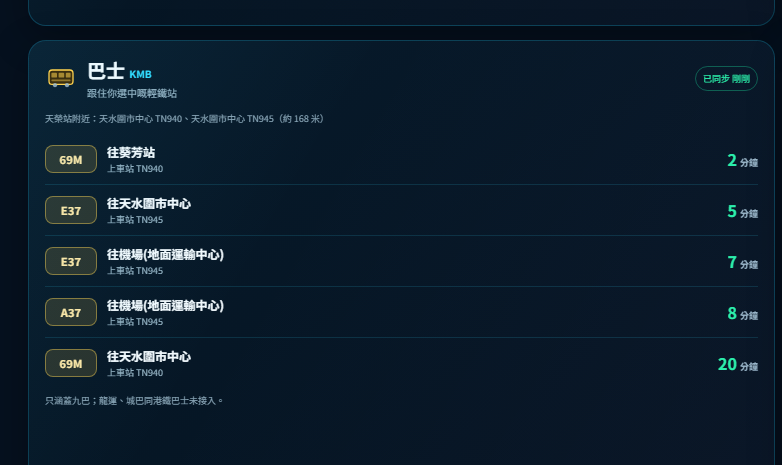
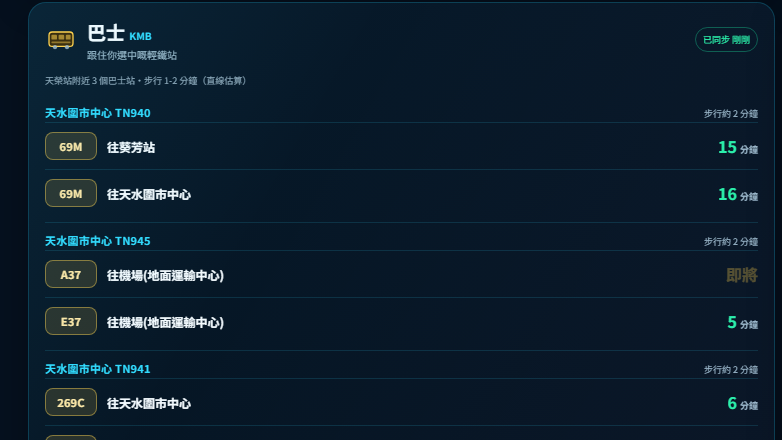
feat(bus): 每站 3 個巴士站、按上車站分組、加步行時間估算

diff --git a/src/ui/bus.ts b/src/ui/bus.ts
@@ -1,10 +1,13 @@
 import type { BusArrival, Slice } from '../api/types';
+import { groupByStop } from '../core/bus';
 import { busStopsFor } from '../core/places';
+import { walkLabel, walkMinutes } from '../core/walk';
 import { byId, h, replace, setText } from '../lib/dom';
 import { agoText, etaText, freshness } from '../lib/format';
 
 const STALE_MS = 3 * 60_000;
 const DEAD_MS = 20 * 60_000;
+const PER_STOP = 2;
 
 function badgeText(slice: Slice<readonly BusArrival[]>, now: Date): string {
   if (slice.state === 'error') return '更新失敗';
@@ -15,12 +18,6 @@ function badgeText(slice: Slice<readonly BusArrival[]>, now: Date): string {
   return `已同步 ${agoText(slice.updatedAt, now)}`;
 }
 
-/** 站名最後一段就係九巴站編號（例如「天水圍市中心 TN940」→ TN940）。 */
-function stopCode(name: string): string {
-  const match = /([A-Z]{2}\d{3})$/.exec(name);
-  return match?.[1] ?? name;
-}
-
 /** 九巴路線號有字母（A37／E37C／259D），所以獨立一個 chip 樣式，唔跟輕鐵色相。 */
 function busRow(row: BusArrival): HTMLElement {
   const eta = etaText(row.minutes);
@@ -28,12 +25,7 @@ function busRow(row: BusArrival): HTMLElement {
     'div',
     { class: 'bus-row' },
     h('span', { class: 'bus-chip', text: row.route }),
-    h(
-      'div',
-      { class: 'bus-info' },
-      h('b', { text: row.dest ? `往${row.dest}` : '目的地不詳' }),
-      h('small', { text: `上車站 ${stopCode(row.stop)}` }),
-    ),
+    h('div', { class: 'bus-info' }, h('b', { text: row.dest ? `往${row.dest}` : '目的地不詳' })),
     h(
       'strong',
       { class: eta.due ? 'due' : undefined },
@@ -43,16 +35,24 @@ function busRow(row: BusArrival): HTMLElement {
   );
 }
 
-export function renderBus(slice: Slice<readonly BusArrival[]>, stationCode: string, stationName: string, now: Date): void {
+export function renderBus(
+  slice: Slice<readonly BusArrival[]>,
+  stationCode: string,
+  stationName: string,
+  now: Date,
+): void {
   setText(byId('bus-badge'), badgeText(slice, now));
 
   const stops = busStopsFor(stationCode);
-  const stopLabel = stops.length > 0 ? stops.map((stop) => `${stop.name}`).join('、') : '未設定';
-  const meters = stops.length > 0 ? Math.min(...stops.map((stop) => stop.meters)) : null;
-  setText(
-    byId('bus-stops'),
-    `${stationName}站附近：${stopLabel}${meters !== null ? `（約 ${meters} 米）` : ''}`,
-  );
+  if (stops.length === 0) {
+    setText(byId('bus-stops'), '未設定附近巴士站');
+  } else {
+    const longest = Math.max(...stops.map((stop) => walkMinutes(stop.meters)));
+    setText(
+      byId('bus-stops'),
+      `${stationName}站附近 ${stops.length} 個巴士站・步行 1-${longest} 分鐘（直線估算）`,
+    );
+  }
 
   const list = byId('bus-list');
   if (!slice.data) {
@@ -64,10 +64,26 @@ export function renderBus(slice: Slice<readonly BusArrival[]>, stationCode: stri
     return;
   }
 
-  if (slice.data.length === 0) {
+  const groups = groupByStop(slice.data, stops, PER_STOP);
+  if (groups.length === 0) {
     replace(list, h('div', { class: 'state-empty', text: '附近巴士站暫無即將到站班次' }));
     return;
   }
 
-  replace(list, ...slice.data.map(busRow));
+  replace(
+    list,
+    ...groups.map((group) =>
+      h(
+        'section',
+        { class: 'bus-group' },
+        h(
+          'div',
+          { class: 'bus-group-head' },
+          h('b', { text: group.stop.name }),
+          h('span', { title: `直線距離約 ${group.stop.meters} 米`, text: walkLabel(group.stop.meters) }),
+        ),
+        ...group.rows.map(busRow),
+      ),
+    ),
+  );
 }

diff --git a/test/bus-group.test.ts b/test/bus-group.test.ts
@@ -1,0 +1,35 @@
+import { test } from 'node:test';
+import assert from 'node:assert/strict';
+
+import { groupByStop } from '../src/core/bus.ts';
+
+const stops = [
+  { id: 'A', name: '站甲 TA001', meters: 120 },
+  { id: 'B', name: '站乙 TA002', meters: 200 },
+  { id: 'C', name: '站丙 TA003', meters: 260 },
+];
+
+const rows = [
+  { route: '69M', dest: '天水圍', minutes: 3, stopId: 'A' },
+  { route: 'E37', dest: '機場', minutes: 12, stopId: 'A' },
+  { route: '265B', dest: '旺角', minutes: 9, stopId: 'A' },
+  { route: '269D', dest: '沙田', minutes: 4, stopId: 'B' },
+];
+
+test('按上車站分組，每組最多 2 班、按時間排序', () => {
+  const groups = groupByStop(rows, stops);
+  assert.equal(groups.length, 2, '冇班次的站不應出現');
+  assert.equal(groups[0]?.stop.id, 'A');
+  assert.deepEqual(groups[0]?.rows.map((r) => r.route), ['69M', '265B'], '第三班 12 分鐘應被截走');
+  assert.deepEqual(groups[1]?.rows.map((r) => r.route), ['269D']);
+});
+
+test('perStop 可調，且唔會漏站', () => {
+  const groups = groupByStop(rows, stops, 5);
+  assert.equal(groups[0]?.rows.length, 3);
+  assert.equal(groups.length, 2, '站丙仍然冇班次');
+});
+
+test('完全冇班次時回空陣列，唔會出現空組', () => {
+  assert.deepEqual(groupByStop([], stops), []);
+});

diff --git a/src/core/bus.ts b/src/core/bus.ts
@@ -1,0 +1,43 @@
+/**
+ * 巴士到站分組（純函式，可測試）。
+ *
+ * 一個輕鐵站可能對應幾個巴士站（唔同街道／方向）。把班次按「上車站」分組，
+ * 每組只顯示最近 N 班，令「去邊個月台上車」一目了然。
+ */
+
+export interface BusRowLike {
+  readonly route: string;
+  readonly dest: string;
+  readonly minutes: number;
+  readonly stopId: string;
+}
+
+export interface BusStopInput {
+  readonly id: string;
+  readonly name: string;
+  readonly meters: number;
+}
+
+export interface BusGroup<T extends BusRowLike> {
+  readonly stop: BusStopInput;
+  readonly rows: readonly T[];
+}
+
+export function groupByStop<T extends BusRowLike>(
+  rows: readonly T[],
+  stops: readonly BusStopInput[],
+  perStop = 2,
+): BusGroup<T>[] {
+  const groups: BusGroup<T>[] = [];
+
+  for (const stop of stops) {
+    const own = rows
+      .filter((row) => row.stopId === stop.id)
+      .sort((a, b) => a.minutes - b.minutes)
+      .slice(0, perStop);
+    if (own.length === 0) continue;
+    groups.push({ stop, rows: own });
+  }
+
+  return groups;
+}

diff --git a/src/api/bus.ts b/src/api/bus.ts
@@ -20,7 +20,7 @@ function minutesUntil(iso: string, now: Date): number | null {
   return diff < 0 ? 0 : diff;
 }
 
-export function parseStopEta(payload: unknown, stopName: string, now: Date): BusArrival[] {
+export function parseStopEta(payload: unknown, stop: { id: string; name: string }, now: Date): BusArrival[] {
   const root = record(payload, '九巴回應');
   const data = root['data'];
   if (!Array.isArray(data)) return [];
@@ -40,7 +40,8 @@ export function parseStopEta(payload: unknown, stopName: string, now: Date): Bus
       route,
       dest: optionalText(entry['dest_tc'], 'dest_tc') ?? '',
       minutes,
-      stop: stopName,
+      stop: stop.name,
+      stopId: stop.id,
       operator: optionalText(entry['co'], 'co') ?? 'KMB',
     });
   }
@@ -91,7 +92,7 @@ export async function fetchBusArrivals(
   for (const stop of stops) {
     const rows = payload[stop.id];
     if (rows === undefined) continue;
-    merged.push(...parseStopEta(rows, stop.name, now));
+    merged.push(...parseStopEta(rows, stop, now));
   }
 
   merged.sort((a, b) => a.minutes - b.minutes);

diff --git a/test/walk.test.ts b/test/walk.test.ts
@@ -1,0 +1,23 @@
+import { test } from 'node:test';
+import assert from 'node:assert/strict';
+
+import { WALK_METERS_PER_MINUTE, walkLabel, walkMinutes } from '../src/core/walk.ts';
+
+test('步行時間：80 米 ≈ 1 分鐘', () => {
+  assert.equal(WALK_METERS_PER_MINUTE, 80);
+  assert.equal(walkMinutes(80), 1);
+  assert.equal(walkMinutes(168), 2);
+  assert.equal(walkMinutes(400), 5);
+});
+
+test('極短距離至少顯示 1 分鐘，唔會變 0', () => {
+  assert.equal(walkMinutes(40), 1);
+  assert.equal(walkMinutes(1), 1);
+});
+
+test('冇距離時回 0 / —，唔會亂顯示', () => {
+  assert.equal(walkMinutes(0), 0);
+  assert.equal(walkMinutes(Number.NaN), 0);
+  assert.equal(walkLabel(0), '—');
+  assert.equal(walkLabel(168), '步行約 2 分鐘');
+});

diff --git a/src/config.ts b/src/config.ts
@@ -77,6 +77,7 @@ export const LRT_GROUPS = [
     bus: [
       { id: '0AE307AC4840B867', name: '天水圍市中心 TN940', meters: 168 },
       { id: 'AA92A3F2775F4F69', name: '天水圍市中心 TN945', meters: 168 },
+      { id: 'DFC270E9F05B557E', name: '天水圍市中心 TN941', meters: 168 },
     ],
   },
   {
@@ -88,6 +89,7 @@ export const LRT_GROUPS = [
     bus: [
       { id: '79D68EE7C6CBAB9D', name: '屯門站總站 TM954', meters: 156 },
       { id: 'D74B67D55C63895F', name: '屯門站總站 TM953', meters: 132 },
+      { id: '69EA07FBAB612E68', name: '屯門站總站 TM952', meters: 156 },
     ],
   },
   {

diff --git a/src/core/walk.ts b/src/core/walk.ts
@@ -1,0 +1,18 @@
+/**
+ * 步行時間估算。
+ *
+ * 用直線距離 ÷ 80 米/分鐘（成人悠閒步速約 1.2–1.4 m/s，取較慢的 1.33 m/s ≈ 80 m/min）。
+ * 係**估算**，唔係路線距離；UI 有寫明。
+ */
+
+export const WALK_METERS_PER_MINUTE = 80;
+
+export function walkMinutes(meters: number): number {
+  if (!Number.isFinite(meters) || meters <= 0) return 0;
+  return Math.max(1, Math.round(meters / WALK_METERS_PER_MINUTE));
+}
+
+export function walkLabel(meters: number): string {
+  const minutes = walkMinutes(meters);
+  return minutes === 0 ? '—' : `步行約 ${minutes} 分鐘`;
+}

diff --git a/src/styles/extra.css b/src/styles/extra.css
@@ -248,3 +248,10 @@
 
 .road-dirs{grid-column:1/-1;font-size:8.5px;color:var(--cyan);opacity:.75;line-height:1.4;margin-top:1px}
 
+
+/* 巴士：按上車站分組 */
+.bus-group{padding:0 0 4px}
+.bus-group+ .bus-group{border-top:1px solid rgba(50,220,255,.14);margin-top:2px}
+.bus-group-head{display:flex;align-items:baseline;justify-content:space-between;gap:8px;padding:9px 0 2px}
+.bus-group-head b{font-size:11px;color:var(--cyan);font-weight:600;letter-spacing:.02em}
+.bus-group-head span{font-size:9px;color:var(--muted);white-space:nowrap}

diff --git a/src/api/types.ts b/src/api/types.ts
@@ -59,6 +59,7 @@ export interface BusArrival {
   readonly dest: string;
   readonly minutes: number;
   readonly stop: string;
+  readonly stopId: string;
   readonly operator: string;
 }
 
